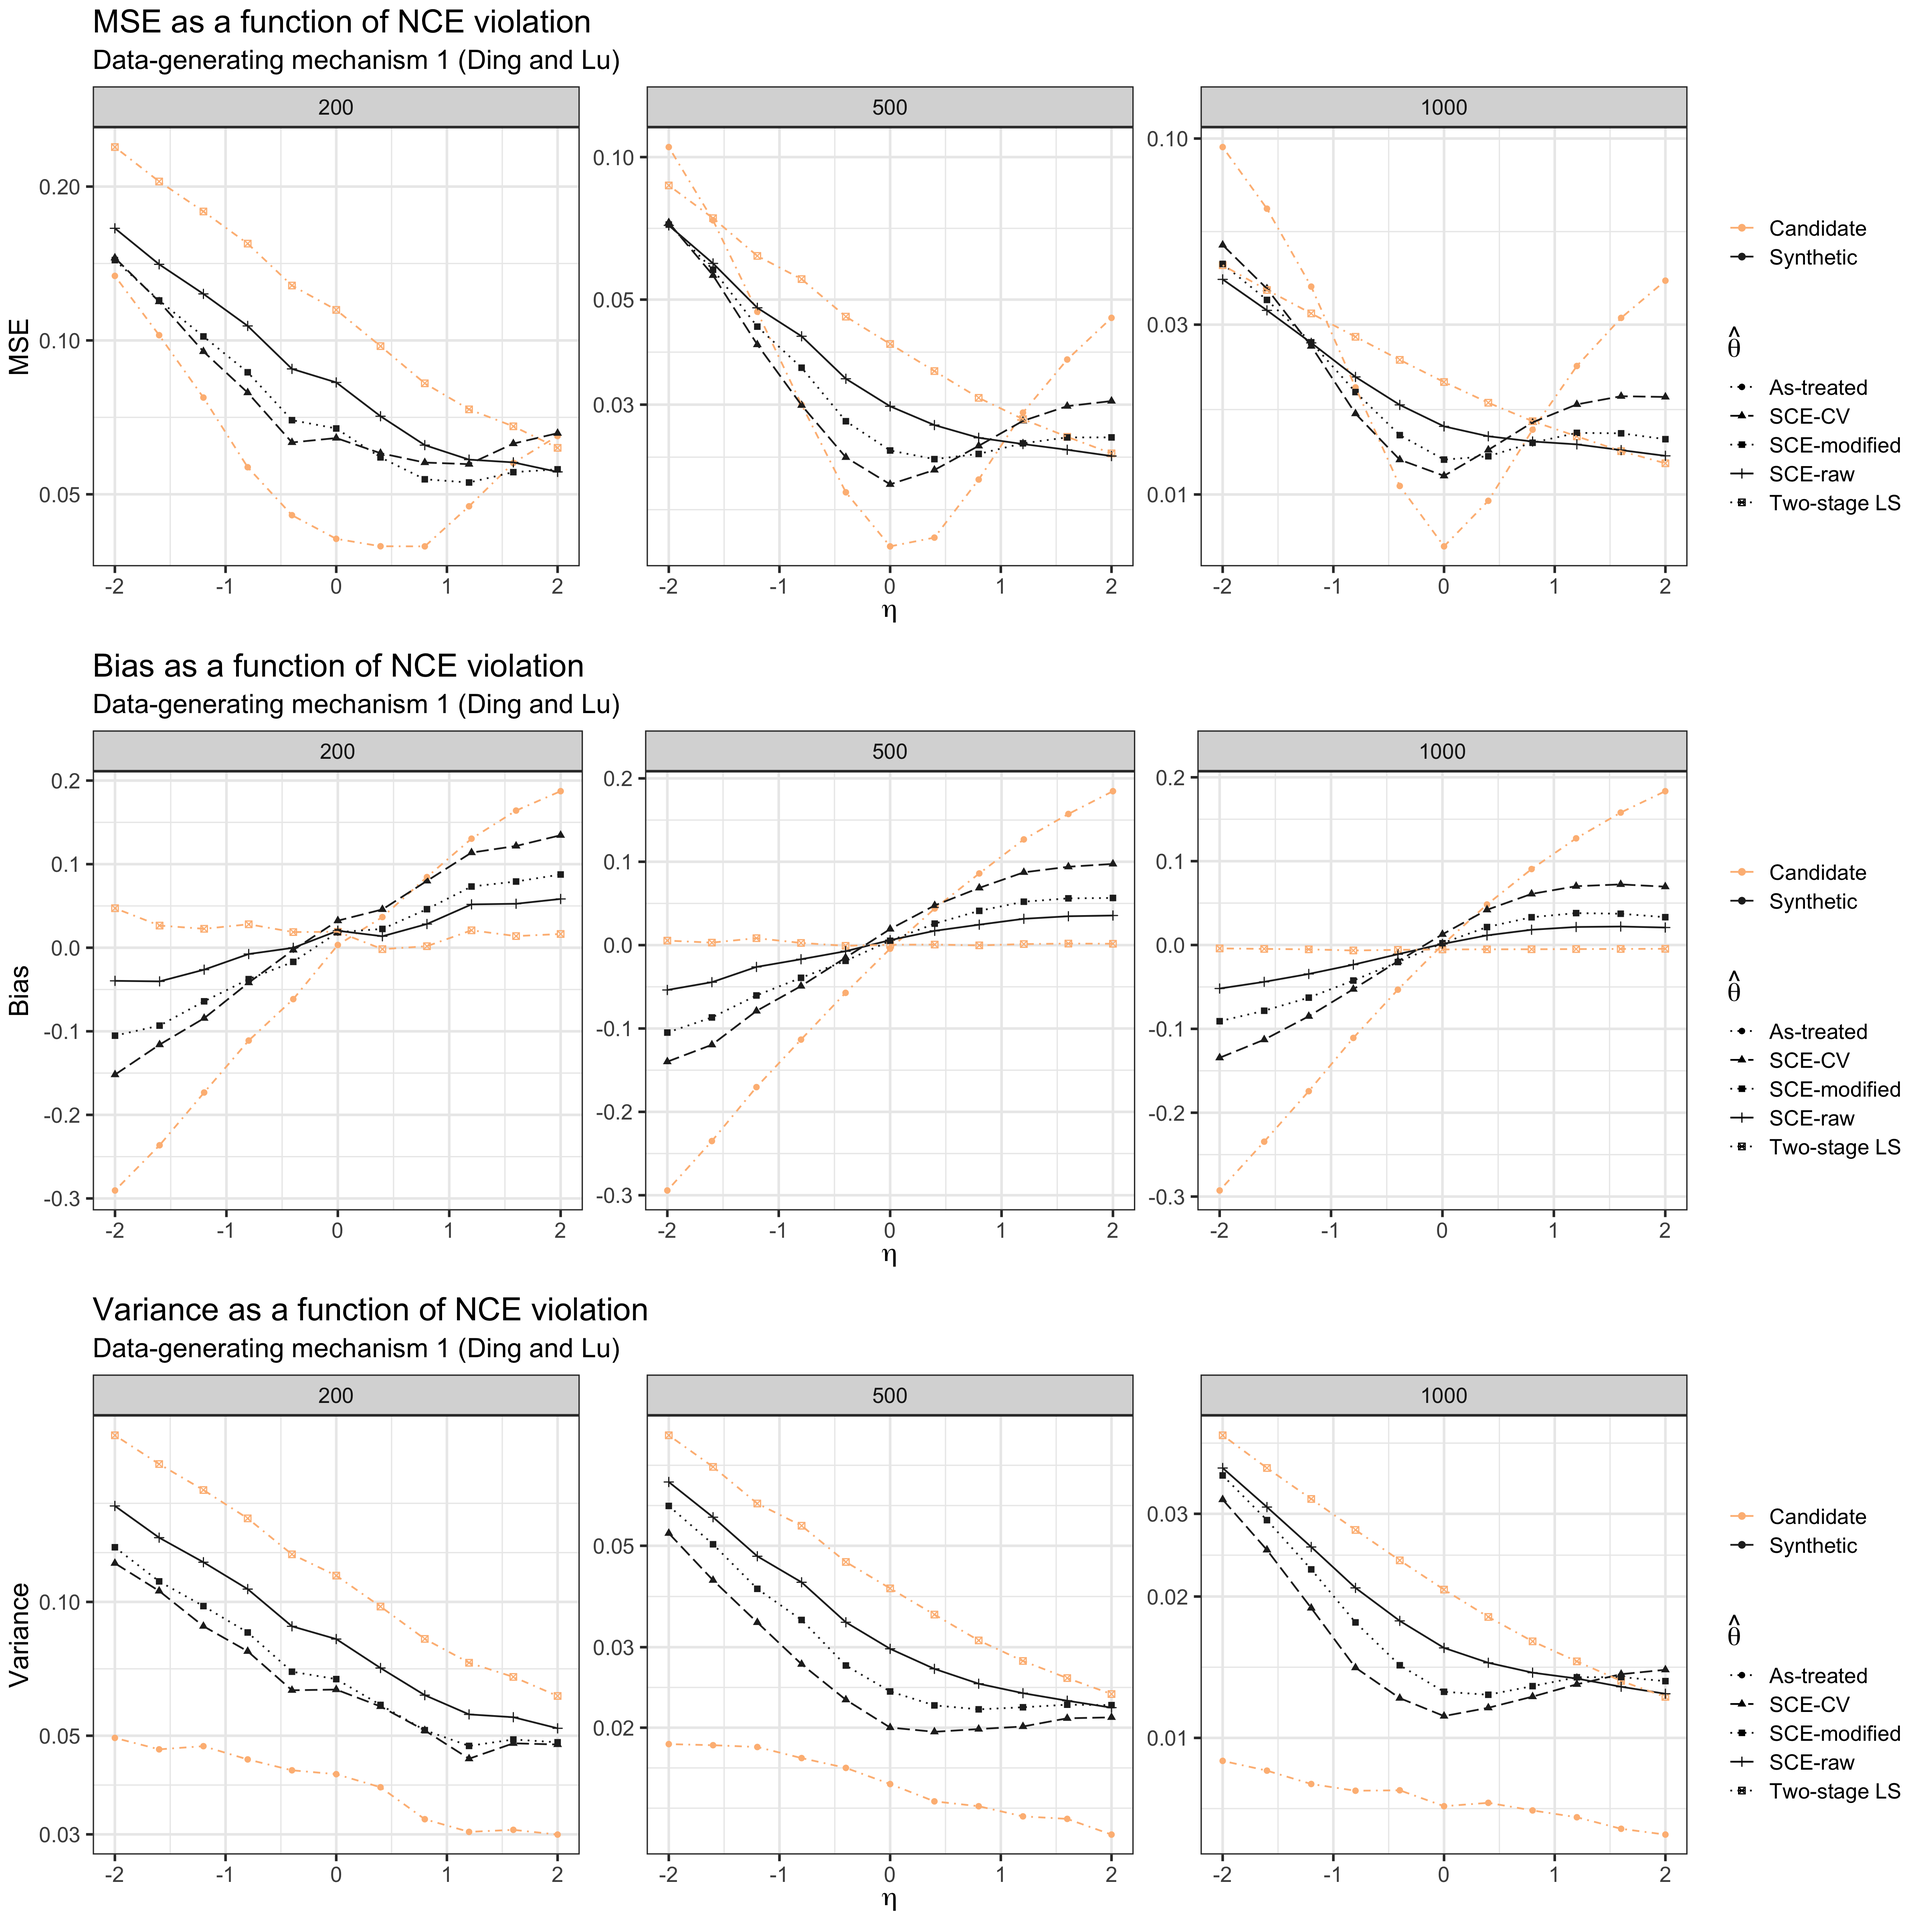
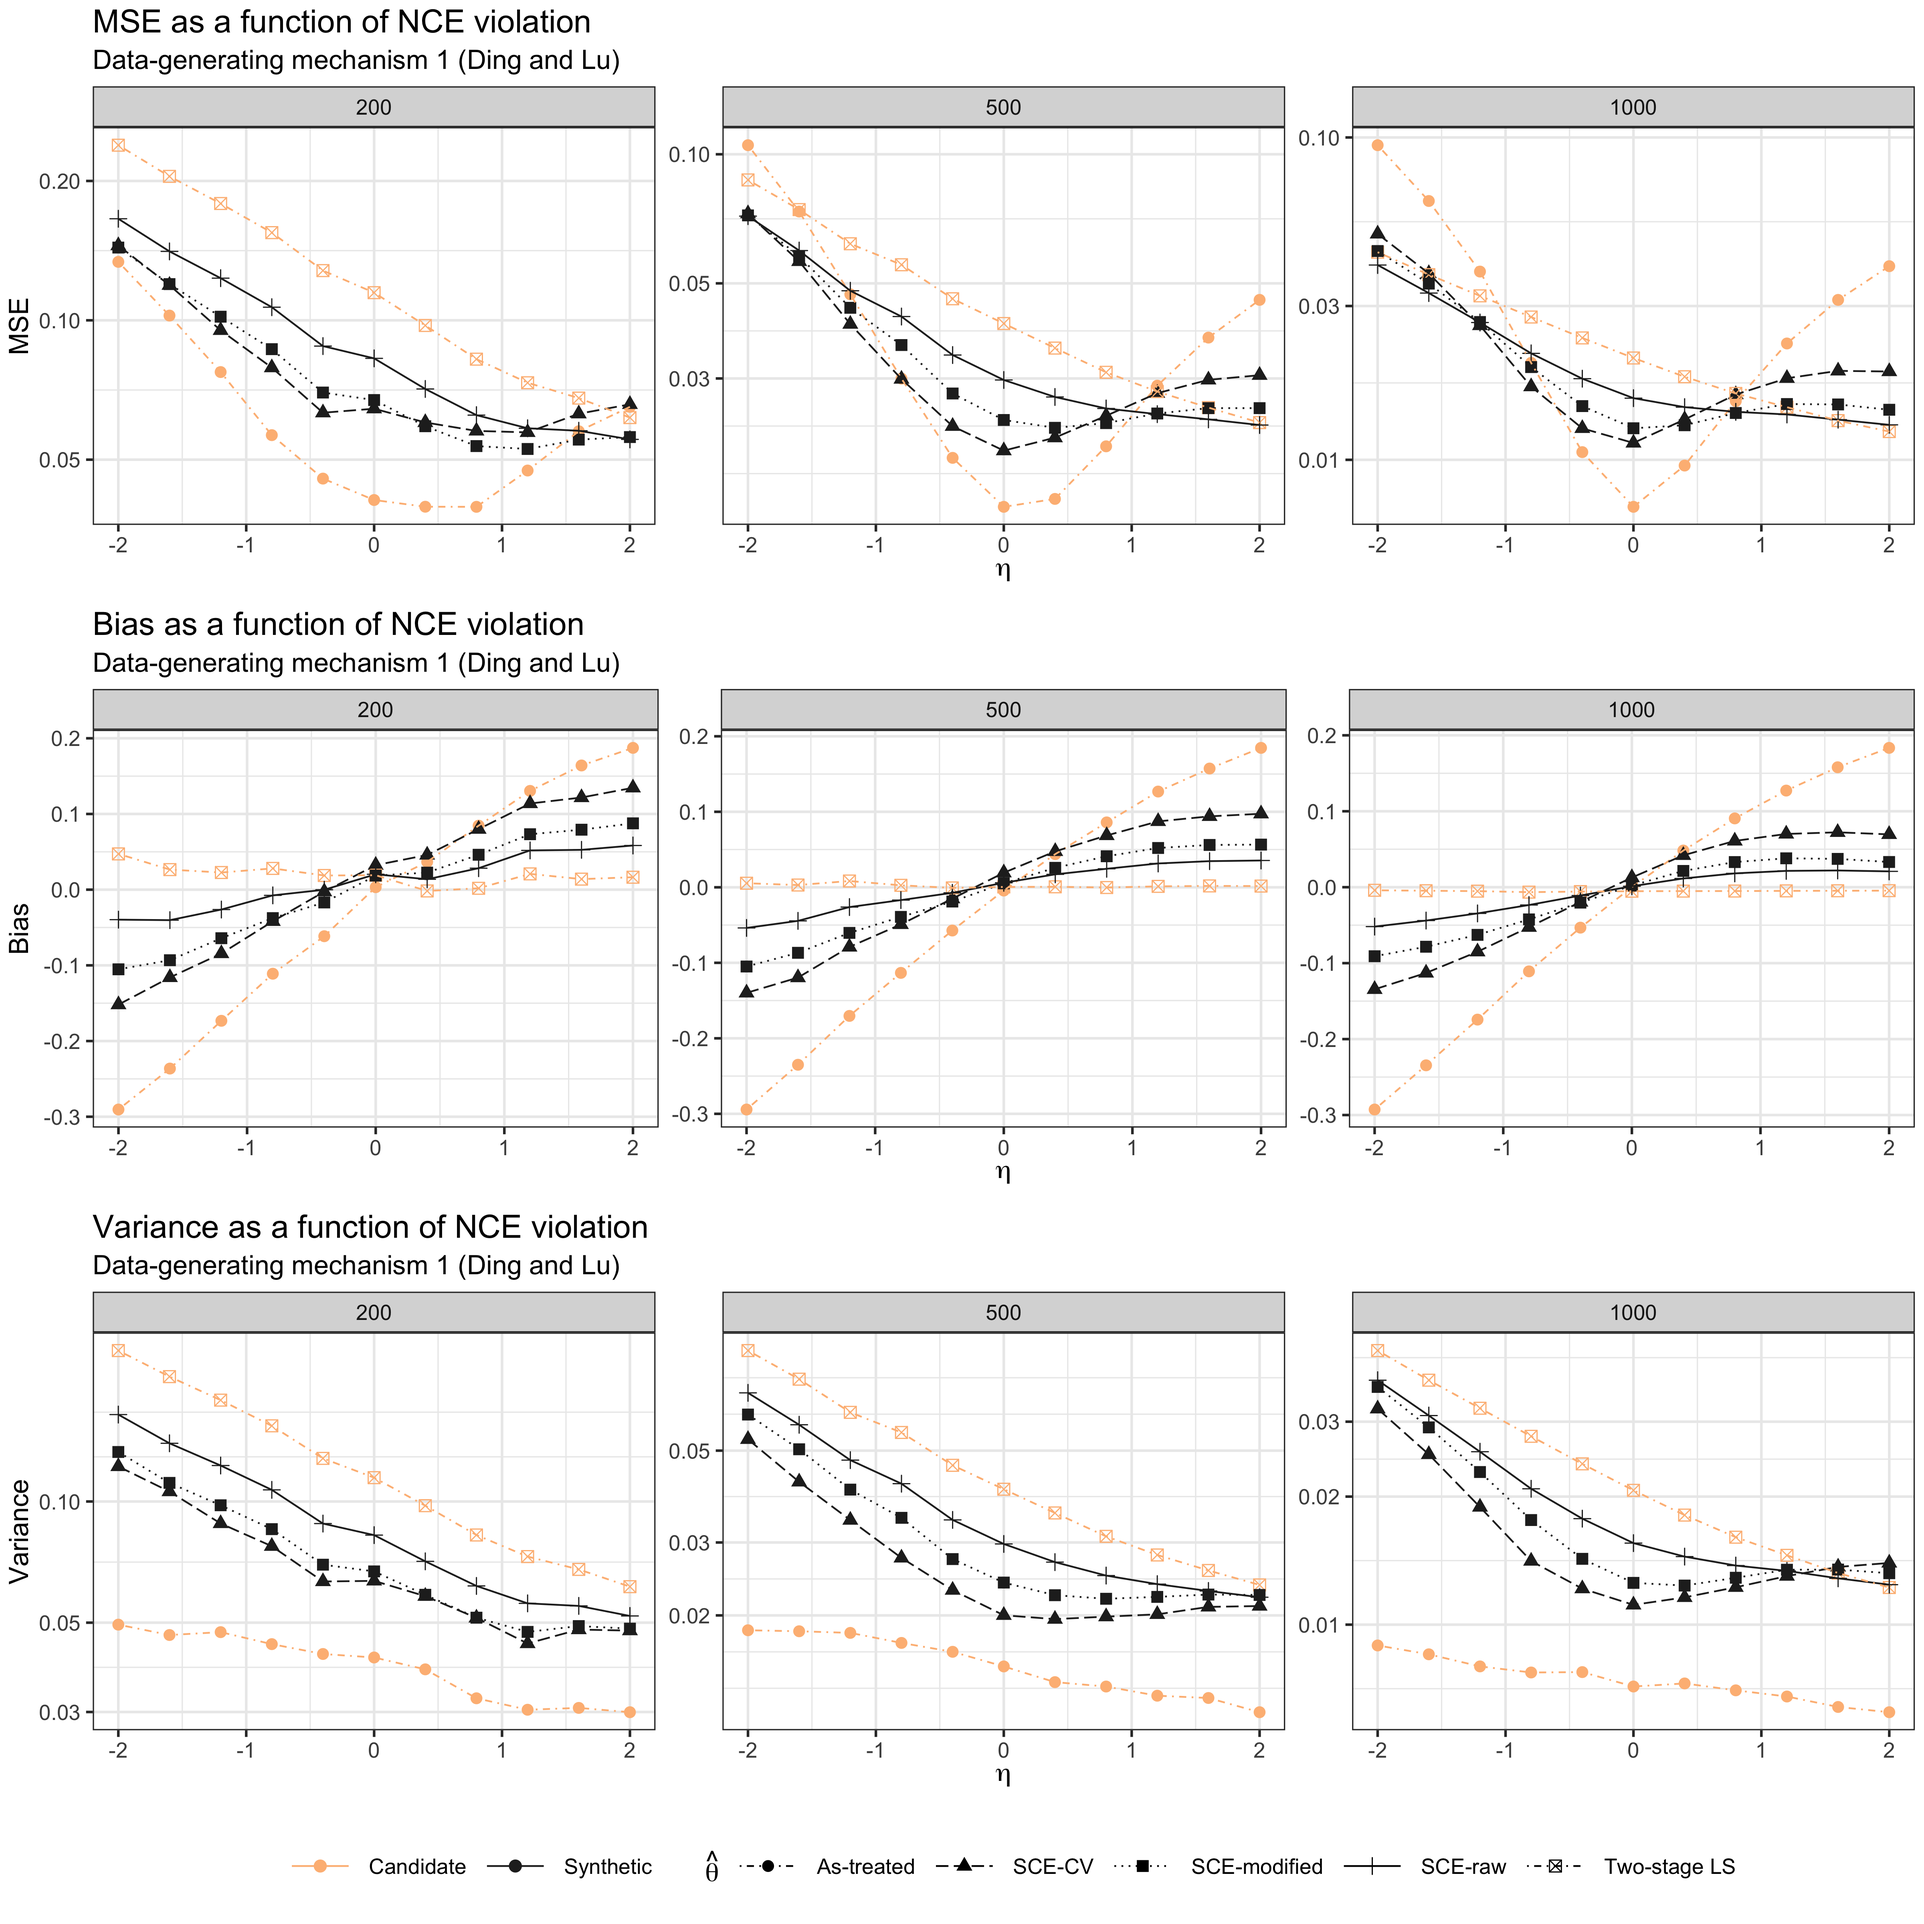
Clarify plots again.

diff --git a/R/07_secondary-sim-plots.md b/R/07_secondary-sim-plots.md
@@ -1,12 +1,14 @@
-#' ---
-#' title: "Compliance plots"
-#' output: github_document
-#' ---
-#' 
+Compliance plots
+================
+dagniel
+2019-06-21
+
+``` r
 library(knitr)
 opts_chunk$set(warning = FALSE, message = FALSE, cache = FALSE, fig.width = 14, fig.height = 14)
+```
 
-#'
+``` r
 library(tidyverse)
 library(here)
 library(glue)
@@ -101,11 +103,18 @@ var_pl <- bias_pl + aes(y = var) +
 
 full_pl <- mse_pl + bias_pl + var_pl + plot_layout(ncol = 1)
 full_pl
+```
+
+![](07_secondary-sim-plots_files/figure-markdown_github/unnamed-chunk-2-1.png)
+
+``` r
 ggsave(here('figures/secondary-sim-mse-plot.png'),
        height = 16, width = 16)
+```
 
-#' Compare the different synthetic estimators. 
-#' 
+Compare the different synthetic estimators.
+
+``` r
 compare_synths <- 
   sec_sum %>%
   filter(theta_0 == 'tsls_est' | (theta_0 == 'atregr_est' & !synthetic),
@@ -153,5 +162,11 @@ var_pl <- bias_pl + aes(y = var) +
 
 full_pl <- mse_pl + bias_pl + var_pl + plot_layout(ncol = 1)
 full_pl
+```
+
+![](07_secondary-sim-plots_files/figure-markdown_github/unnamed-chunk-3-1.png)
+
+``` r
 ggsave(here('figures/secondary-sim-synth-compare-plot.png'),
        height = 16, width = 16)
+```
